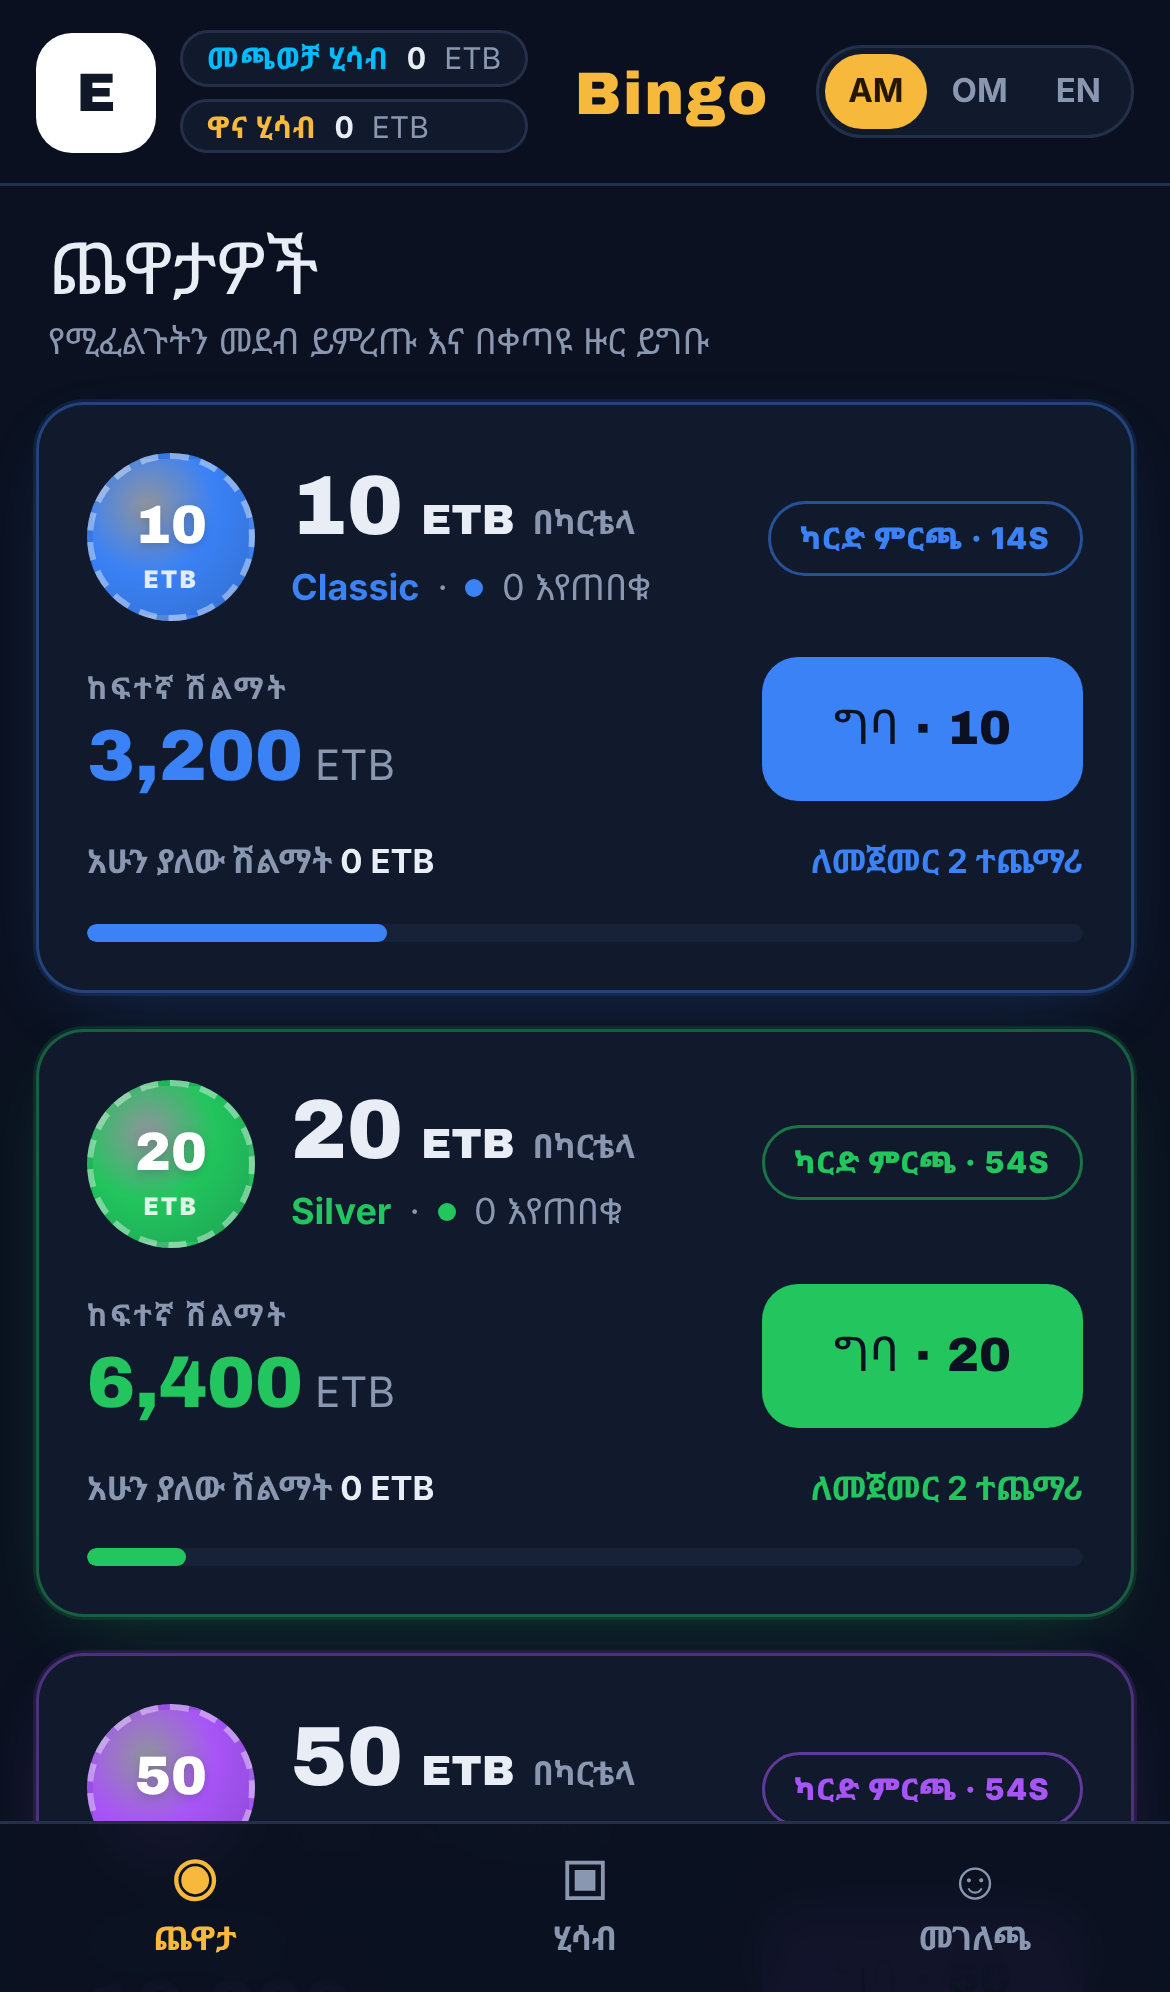
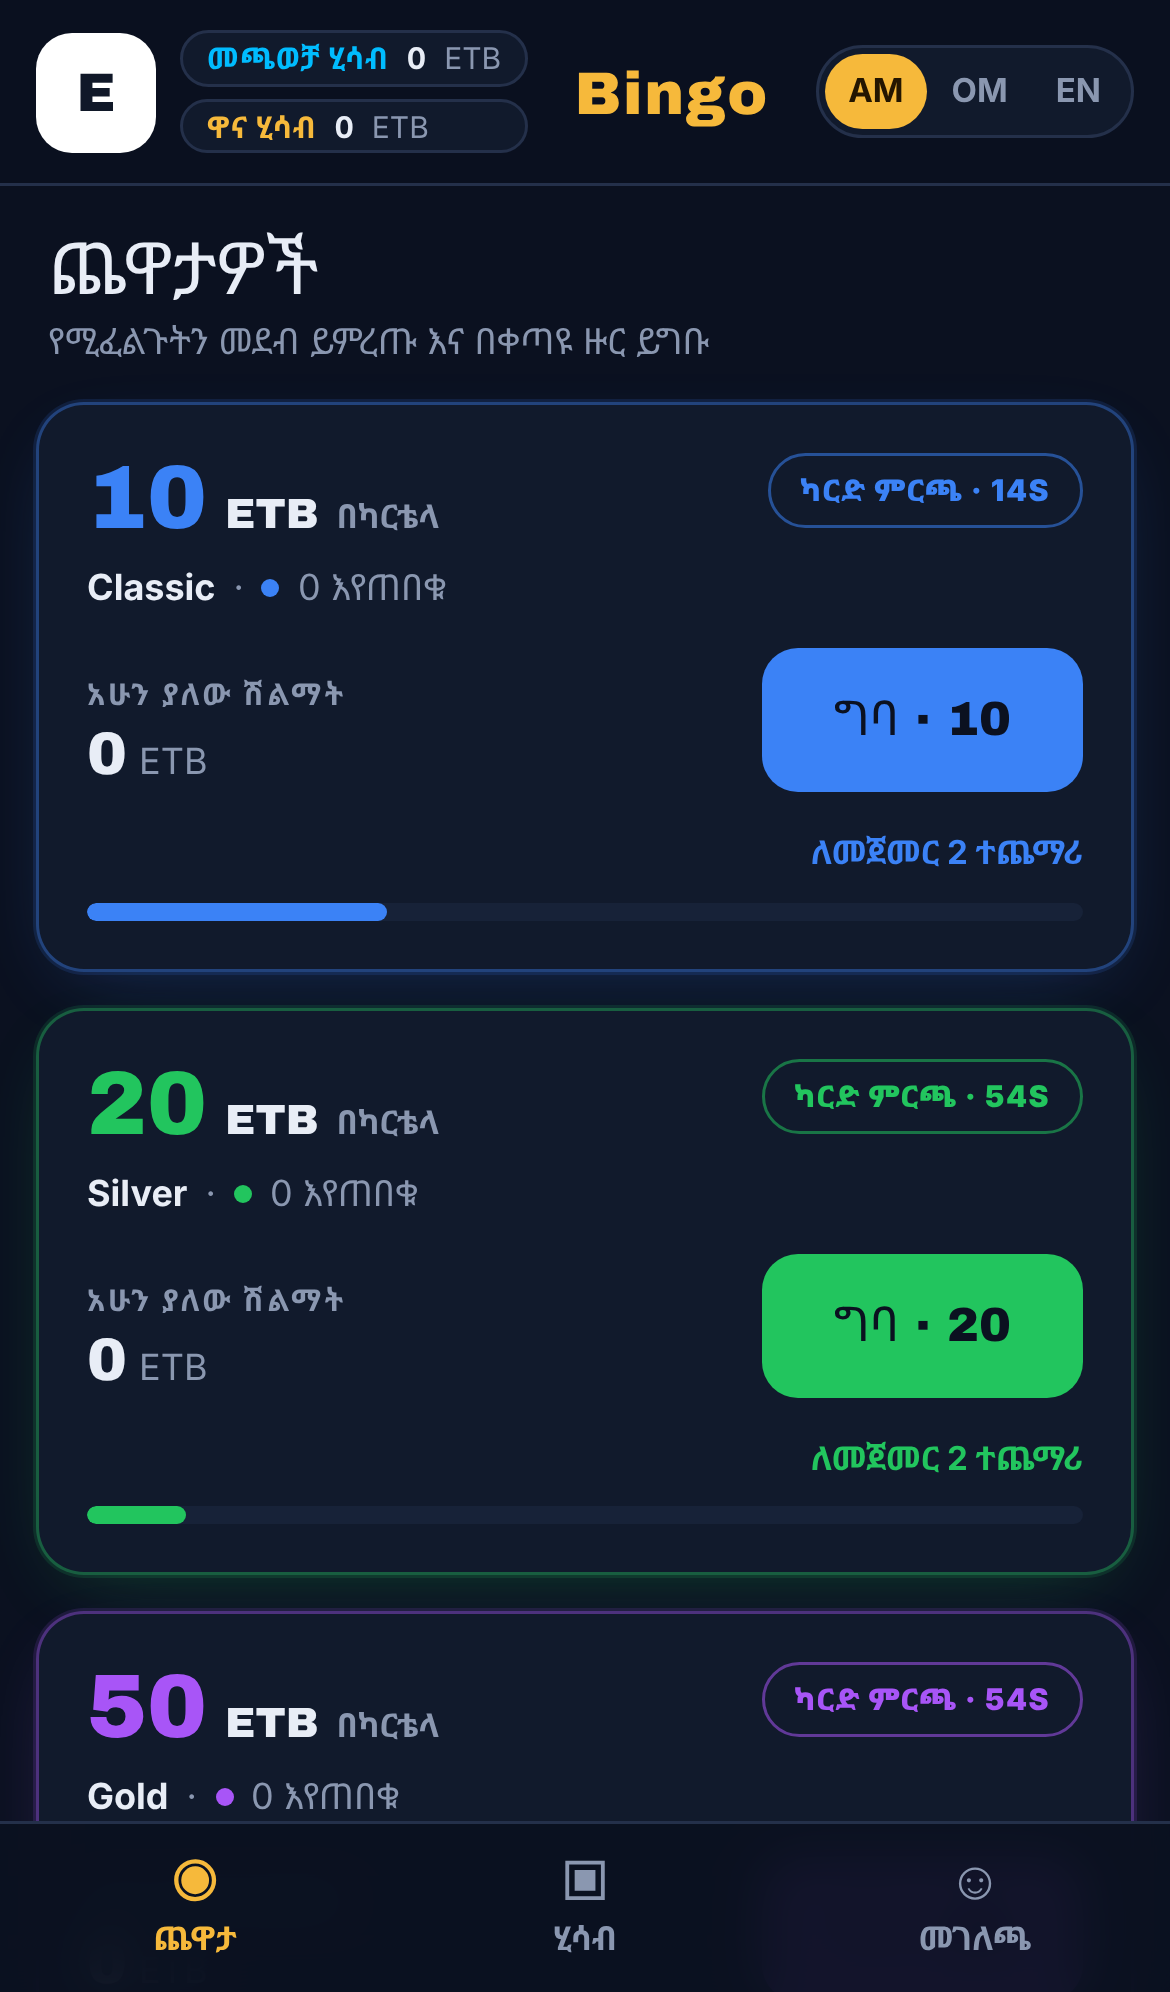
Lobby: remove the stake coin and the max win; show the prize now instead
Claude-Session: https://claude.ai/code/session_01Nu2BzcyXdDo5pV38RCPQCQ

diff --git a/miniapp/src/game/Lobby.tsx b/miniapp/src/game/Lobby.tsx
@@ -88,26 +88,18 @@ function RoomCard({ room, color, now, onOpen }: { room: LobbyRoom; color: string
       className="relative flex w-full flex-col gap-3 overflow-hidden rounded-2xl border bg-panel p-4 text-left transition-transform active:scale-[0.99]"
       style={{ borderColor: `${color}66`, boxShadow: `0 0 0 1px ${color}22, 0 8px 28px -12px ${color}55` }}
     >
-      <div className="flex items-center gap-3">
-        <span
-          className="flex h-14 w-14 shrink-0 flex-col items-center justify-center rounded-full border-2 border-dashed leading-none"
-          style={{ background: `radial-gradient(circle at 35% 30%, #fff8 0, ${color} 45%, ${color}cc 100%)`, borderColor: '#ffffff66' }}
-          aria-hidden
-        >
-          <span className="font-display text-lg text-white drop-shadow">{fmt(room.stake.birr)}</span>
-          <span className="text-[8px] font-black tracking-widest text-white/85">ETB</span>
-        </span>
-        <span className="min-w-0 flex-1">
+      <div className="flex items-start justify-between gap-3">
+        <span className="min-w-0">
           {/* The card price is what players choose by, so it is the title. */}
           <span className="flex items-baseline gap-1.5">
-            <span className="font-display text-[28px] leading-none tabular-nums text-ink">{fmt(room.stake.birr)}</span>
+            <span className="font-display text-[30px] leading-none tabular-nums" style={{ color }}>
+              {fmt(room.stake.birr)}
+            </span>
             <span className="font-display text-sm text-ink">ETB</span>
             <span className="text-[11px] font-bold text-muted">{t('perCard')}</span>
           </span>
-          <span className="mt-1 flex items-center gap-1.5 truncate text-xs text-muted">
-            <span className="font-bold" style={{ color }}>
-              {room.name}
-            </span>
+          <span className="mt-1.5 flex items-center gap-1.5 truncate text-xs text-muted">
+            <span className="font-bold text-ink">{room.name}</span>
             <span aria-hidden>·</span>
             <span className="inline-block h-1.5 w-1.5 shrink-0 rounded-full" style={{ background: drawing ? 'var(--color-live)' : color }} />
             {r.players} {drawing ? t('playing') : t('waiting')}
@@ -124,11 +116,9 @@ function RoomCard({ room, color, now, onOpen }: { room: LobbyRoom; color: string
 
       <div className="flex items-end justify-between gap-3">
         <span className="min-w-0">
-          <span className="block text-[10px] font-bold uppercase tracking-widest text-muted">{t('maxWin')}</span>
-          <span className="font-display text-2xl leading-tight tabular-nums" style={{ color }}>
-            {fmt(room.maxWin.birr)}
-          </span>
-          <span className="ml-1 text-sm text-muted">ETB</span>
+          <span className="block text-[10px] font-bold uppercase tracking-widest text-muted">{t('prizeNow')}</span>
+          <span className="font-display text-xl leading-tight tabular-nums text-ink">{fmt(r.prize.birr)}</span>
+          <span className="ml-1 text-xs text-muted">ETB</span>
         </span>
         <span
           className={`shrink-0 rounded-xl px-6 py-3 font-display text-base ${selecting ? 'text-bg' : 'border-2 bg-transparent'}`}
@@ -138,12 +128,11 @@ function RoomCard({ room, color, now, onOpen }: { room: LobbyRoom; color: string
         </span>
       </div>
 
-      <div className="flex items-center justify-between gap-2 text-[11px] font-bold">
-        <span className="text-muted">
-          {t('prizeNow')} <span className="text-ink">{fmt(r.prize.birr)} ETB</span>
+      {note && (
+        <span className="-mb-1 text-right text-[11px] font-bold" style={{ color }}>
+          {note}
         </span>
-        <span style={{ color }}>{note}</span>
-      </div>
+      )}
       <div className="h-1.5 w-full overflow-hidden rounded-full bg-panel-2" aria-hidden>
         <div className="h-full rounded-full transition-[width] duration-500" style={{ width: `${Math.round(progress * 100)}%`, background: color }} />
       </div>

diff --git a/backend/src/bingo/game.service.ts b/backend/src/bingo/game.service.ts
@@ -119,14 +119,6 @@ export class GameService extends EventEmitter<GameEvents> implements OnApplicati
     return [...this.live.values()].sort((a, b) => a.room.sortOrder - b.room.sortOrder || Number(a.room.stakeMinor - b.room.stakeMinor)).map((l) => l.room.id);
   }
 
-  /** The prize if every card in the room were sold: the most a single winner can get in one round. */
-  maxWinMinor(roomId: string): bigint {
-    const l = this.live.get(roomId);
-    if (!l) return 0n;
-    const { room } = l;
-    return settle({ stakeTotalMinor: BigInt(room.cardPool) * room.stakeMinor, houseCutBps: room.houseCutBps, guaranteedMinor: room.guaranteedPrizeMinor, winners: 1 }).prizeMinor;
-  }
-
   /** Everything a viewer of the room may see. Never includes the server seed of a running round. */
   publicState(roomId: string) {
     const l = this.live.get(roomId);

diff --git a/miniapp/src/i18n.tsx b/miniapp/src/i18n.tsx
@@ -50,7 +50,6 @@ const en = {
   moreToStart: '{n} more to start',
   readyToStart: 'Ready · starting soon',
   perCard: 'per card',
-  maxWin: 'Max win',
   prizeNow: 'Prize now',
   join: 'Join',
   watch: 'Watch',
@@ -169,7 +168,6 @@ const am: Dict = {
   moreToStart: 'ለመጀመር {n} ተጨማሪ',
   readyToStart: 'ዝግጁ · በቅርቡ ይጀምራል',
   perCard: 'በካርቴላ',
-  maxWin: 'ከፍተኛ ሽልማት',
   prizeNow: 'አሁን ያለው ሽልማት',
   join: 'ግባ',
   watch: 'ተመልከት',
@@ -288,7 +286,6 @@ const om: Dict = {
   moreToStart: 'Jalqabuuf {n} dabalataa',
   readyToStart: 'Qophaa\'aa · dhiyootti jalqaba',
   perCard: 'kaardii tokkoof',
-  maxWin: 'Mo\'icha olaanaa',
   prizeNow: 'Badhaasa amma',
   join: 'Seeni',
   watch: 'Ilaali',

diff --git a/backend/src/api.controllers.ts b/backend/src/api.controllers.ts
@@ -183,7 +183,6 @@ export class GameController {
       return [
         {
           ...room,
-          maxWin: money(this.game.maxWinMinor(id)),
           round: {
             number: round.number,
             status: round.status,

diff --git a/miniapp/src/api.ts b/miniapp/src/api.ts
@@ -37,7 +37,6 @@ export interface LobbyRoom {
   stake: Money;
   cardPool: number;
   selectSeconds: number;
-  maxWin: Money;
   round: {
     number: number;
     status: RoundStatus;
